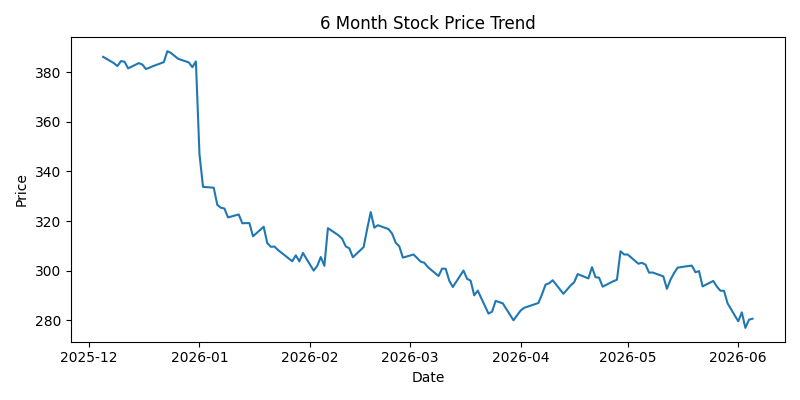
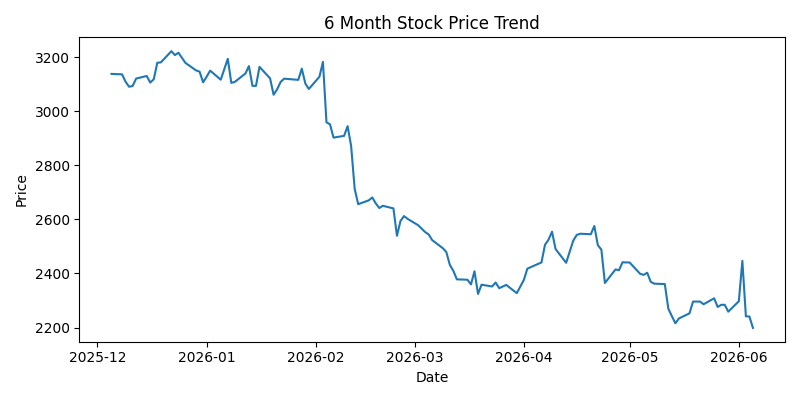
Added multi-stock comparison and ranking engine

diff --git a/main.py b/main.py
@@ -23,6 +23,8 @@ app = FastAPI(
 class StockRequest(BaseModel):
     company: str
 
+class CompareRequest(BaseModel):
+    companies: list[str]
 
 # ---------------- FOLDERS ----------------
 REPORT_FOLDER = "reports"
@@ -126,6 +128,53 @@ def generate_report(req: StockRequest):
             "status": "error",
             "message": str(e)
         }
+
+
[email redacted]("/compare")
+def compare_stocks(req: CompareRequest):
+
+    results = []
+
+    for company in req.companies:
+
+        stock, news, analysis, history, sentiment, recommendation = run_pipeline(
+            company
+        )
+
+        score = (
+            stock["1_month_return"]
+            + stock["3_month_return"]
+            + stock["6_month_return"]
+            + (sentiment["score"] * 10)
+        )
+
+        results.append({
+            "company": company,
+            "price": stock["price"],
+            "1_month_return": stock["1_month_return"],
+            "3_month_return": stock["3_month_return"],
+            "6_month_return": stock["6_month_return"],
+            "sentiment": sentiment["label"],
+            "sentiment_score": sentiment["score"],
+            "rating": recommendation["rating"],
+            "confidence": recommendation["confidence"],
+            "score": score
+        })
+
+    best_stock = max(
+        results,
+        key=lambda x: x["score"]
+    )
+
+    return {
+        "best_pick": best_stock["company"],
+        "best_pick_score": best_stock["score"],
+        "reason": (
+            f"{best_stock['company']} has the strongest "
+            "combination of returns and sentiment."
+        ),
+        "comparison": results
+    }
 
 
 

diff --git a/pdf_generator.py b/pdf_generator.py
@@ -179,27 +179,6 @@ def create_pdf(stock,news,analysis,history,sentiment,recommendation,filename):
 
     content.append(
         Paragraph(
-            "INVESTMENT RECOMMENDATION",
-            heading_style
-        )
-    )
-
-    content.append(
-        Paragraph(
-            f"<b>Rating:</b> {recommendation['rating']}",
-            body_style
-        )
-    )
-
-    content.append(
-        Paragraph(
-            f"<b>Confidence:</b> {recommendation['confidence']}%",
-            body_style
-        )
-    )
-
-    content.append(
-        Paragraph(
             f"<b>Reason:</b> {recommendation['reason']}",
             body_style
         )